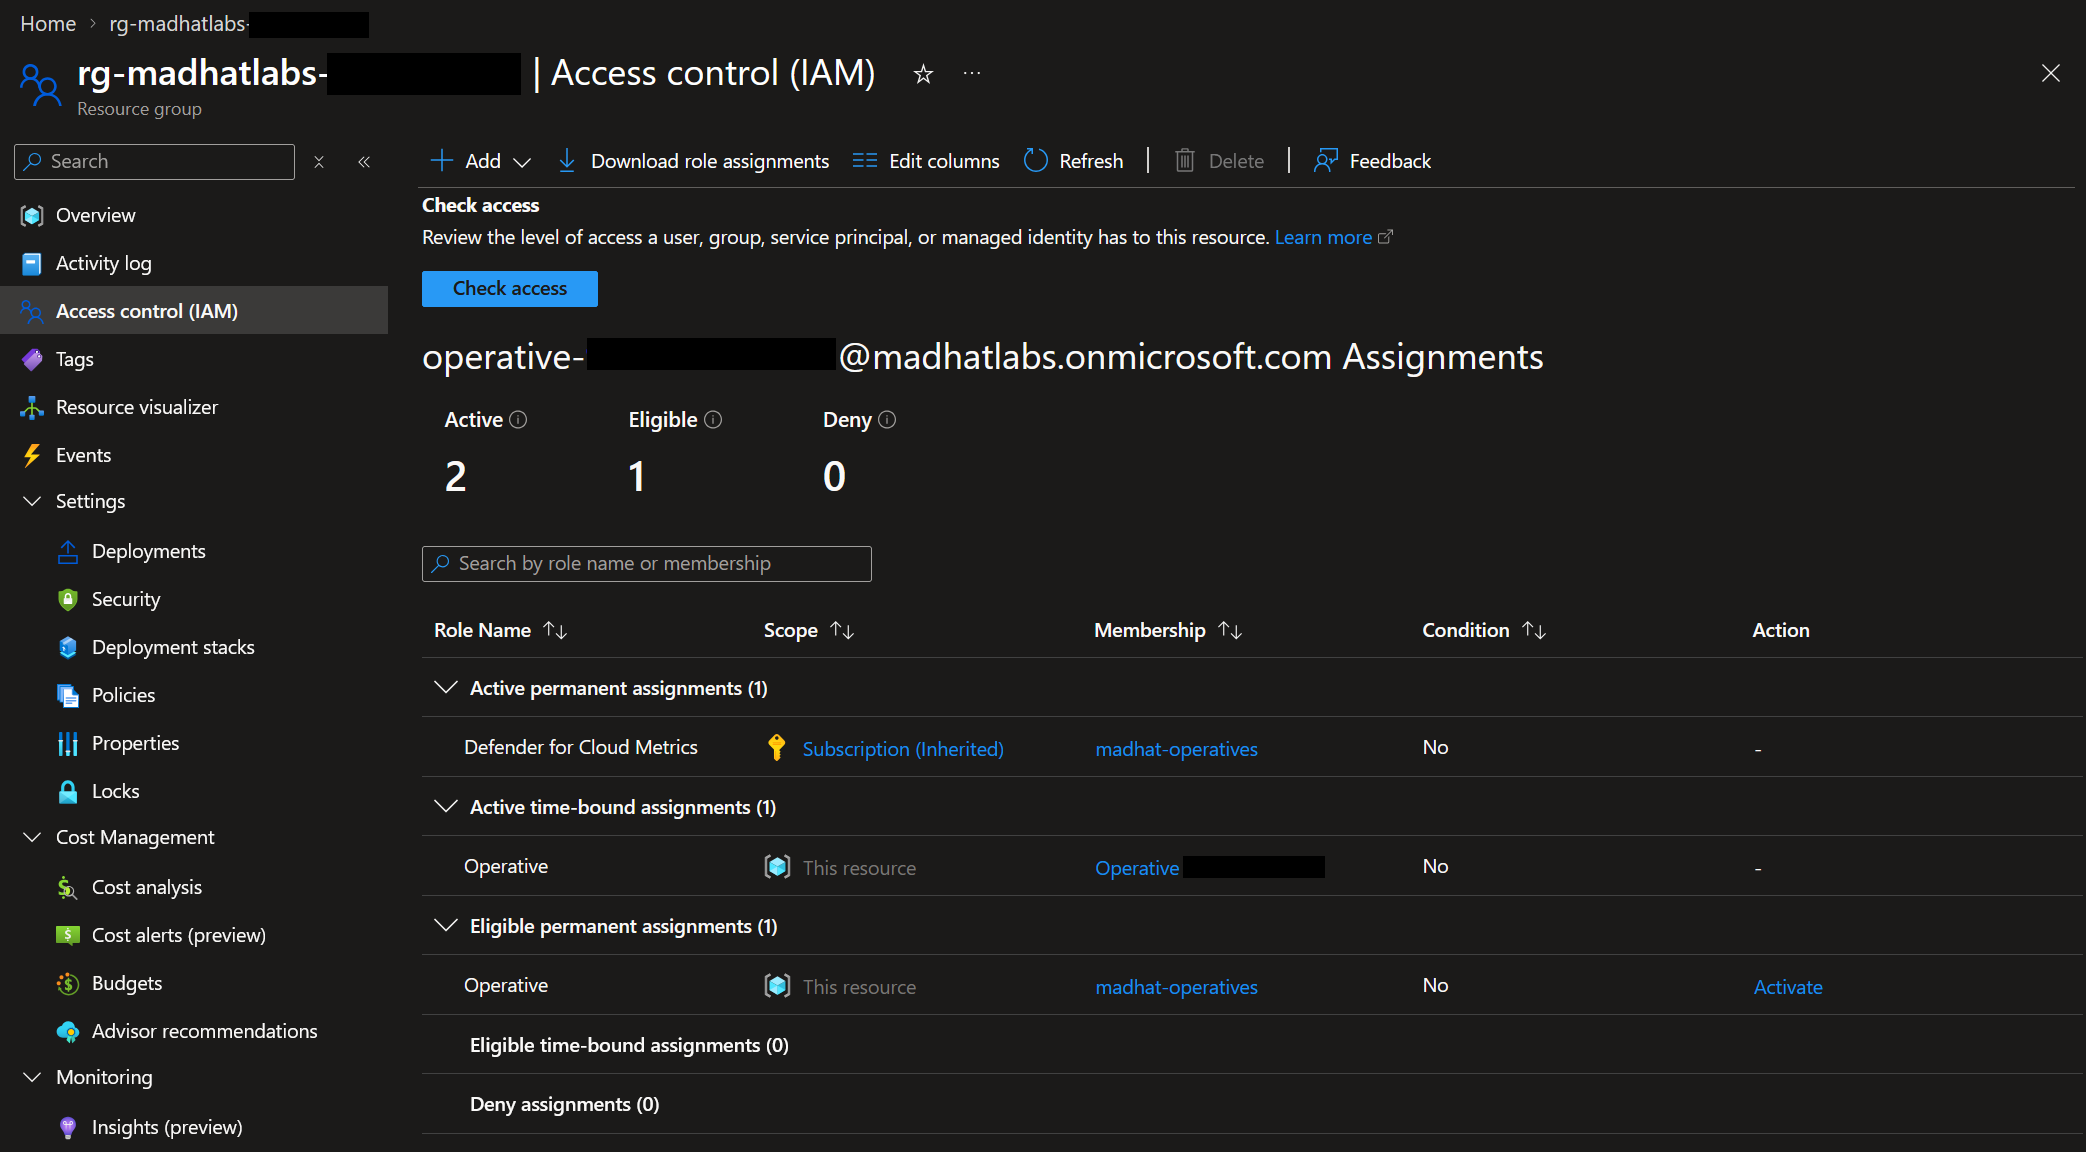
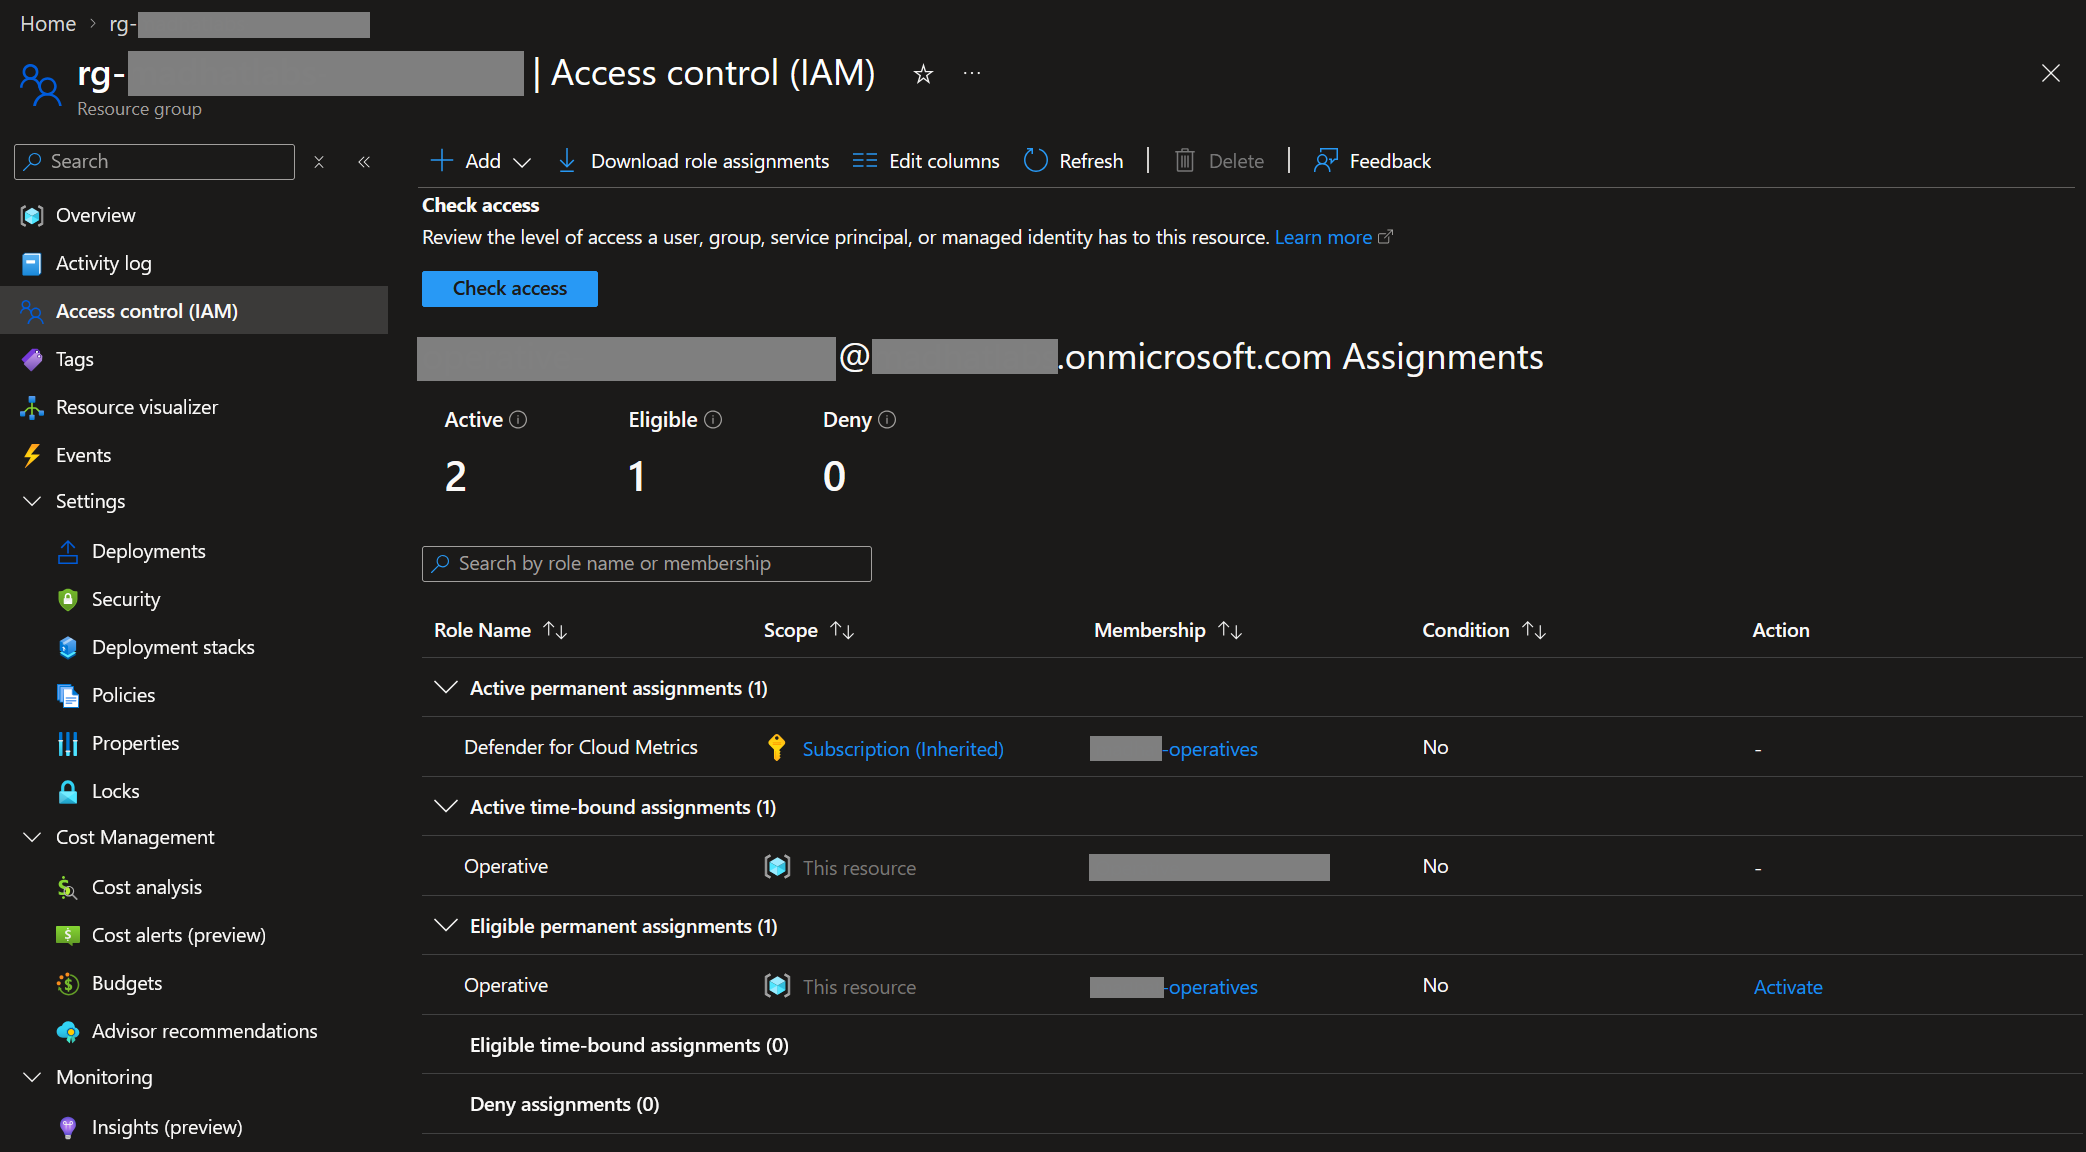
Ship Lab 04

diff --git a/Lab 04 The Friday Deploy.md b/Lab 04 The Friday Deploy.md
@@ -1,0 +1,74 @@
+# The Friday Deploy
+
+## Scenario
+The intern shipped a new notification service Friday at 4:57pm. Now it's Monday and nobody has looked at it since deployment. I have reader access and need to review the deployment before it ships to production.
+
+## Method
+There is no written standard, so I must derive the standard from the existing infrastructure. I will review the deployment across five key areas; location, workload identity, data exposure, user access, is it ready for deployment?
+
+## The Priority Call
+> Prioritization principle - Exposeure beats hygiene. Active beats potential.
+
+| Priority | Severity | Finding | Impact |
+| :------- | :------- | :------ | :----- |
+| Priority 1 | Critical | Blob container set to public anonymous access | This is an active data leak exposure, visible to anyone on the internet  without authentication |
+| Priority 2 | High | All inbound traffic allowed to App | Internal endpoints exposed to scanning, abuse, and potential exploitation |
+| Priority 3 | High | App is Missing Managed Identity | Credentials likely hardcoded in app or settings |
+| Priority 4 | Medium | Wrong region | Increased latency AND data egress costs |
+
+## THE WHERE. Is it even in the right place?
+**What I observed:** The application was deployed to a different region than the existing baseline. The application is in Australia East.
+
+**How I verified:** Inspected the resource group properties and found that all other resource groups are within the US.
+
+**Why it matters:** Increased network latency, unnecessary cross-region data egress charges.
+
+**What to do:** Redeploy the resource group and all associated resources into the standard region.
+
+![Screenshot](./images/lab04/screenshot04-01.png)  
+![Screenshot](./images/lab04/screenshot04-02.png)
+
+## THE WHO. How does it authenticate to what it depends on?
+**What I observed:**  The application has no managed identity attached.
+
+**How I verified:** Checked the Identity blade of the function app.
+
+**Why it matters:** Hardcoded or stored credentials increase the risk of leaked credentials and administrative overhead.
+
+**What to do:** Attach a system-assigned managed identity.
+
+![Screenshot](./images/lab04/screenshot04-03.png)
+
+## THE LEAK. Where does its data actually sit?
+**What I observed:** A blob storage container was configured for anonymous public access.
+
+**How I verified:** Copied the public blob URL and successfully retrieved the stored file from an unauthenticated private browser window.
+
+**Why it matters:** Active data leak. Data in the blob storage container is actively exposed to anyone on the internet without authentication.
+
+**What to do:** Disable anonymous public access on the blob storage container immediately and secure data access over private routes.
+
+![Screenshot](./images/lab04/screenshot04-04.png)
+
+## THE DOOR. Who can reach it?
+**What I observed:** The function app had zero inbound access restrictions.
+
+**How I verified:** Reviewed the access restriction rules under the application's networking configuration.
+
+**Why it matters:** By default, if there is no inbound access restrictions then the *Allow all* rule is left open.
+
+**What to do:** Add a single explicit inbound deny rule to block public.
+
+![Screenshot](./images/lab04/screenshot04-05.png)
+
+## REMEDIATION RECOMMENDATIONS
+- Close the public container immediately.
+- Attach a user-assigned managed identity with a scoped role on the storage account and remove the stored credential.
+- Redeploy into the platform's standard region.
+- Add a single deny rule to close inbound, since one rule flips everything unmatched to implicit deny.
+- A deploy checklist so the next Friday afternoon does not need a human to catch four things.
+
+## Key takeaways
+### What I learned
+- On the function app, the default network config for public access is the *Allow all* rule. An explicit deny rule must be configured manually.
+- I learned about data egress costs. Every call that the service makes now increases the cloud bill. 

diff --git a/README.md b/README.md
@@ -8,10 +8,10 @@ Contact: stevenshudy@gmail.com · https://www.linkedin.com/in/stevenhudy/
 ## Investigations
 | # | Title | Focus | Write-up |
 |---|-------|-------|----------|
-| 1 | Operation Dead Deploy | Governance forensics, deployment audit trail | [Lab 01 Write Up](./Lab%2001%20Operation%20Dead%20Deploy.md) |
-| 2 | The Stolen Identity | App registration attack kill chain (Entra ID) | [Lab 02 Write Up](./Lab%2002%20The%20Stolen%20Identity.md) |
-| 3 | Privilege Audit | RBAC and least privilege | [Lab 03 Write Up](./Lab%2003%20The%20Privilege%20Audit.md) |
-| 4 | Spin Up and Lock Down | Compute attack surface | coming, week 4 |
+| 1 | Operation Dead Deploy | Governance forensics, deployment audit trail | [Investigation](./Lab%2001%20Operation%20Dead%20Deploy.md) |
+| 2 | The Stolen Identity | App registration attack kill chain (Entra ID) | [Investigation](./Lab%2002%20The%20Stolen%20Identity.md) |
+| 3 | Privilege Audit | RBAC and least privilege | [Permissions Audit](./Lab%2003%20The%20Privilege%20Audit.md) |
+| 4 | Spin Up and Lock Down | Compute attack surface | [Pre-prod deployment review](./Lab%2004%20The%20Friday%20Deploy.md) |
 | 5 | Network the Operative | Network segmentation | coming, week 5 |
 | 6 | Bucket Looting | Storage exposure hunting | coming, week 6 |
 | 7 | Find the Anomaly | Log analysis and KQL | coming, week 7 |
